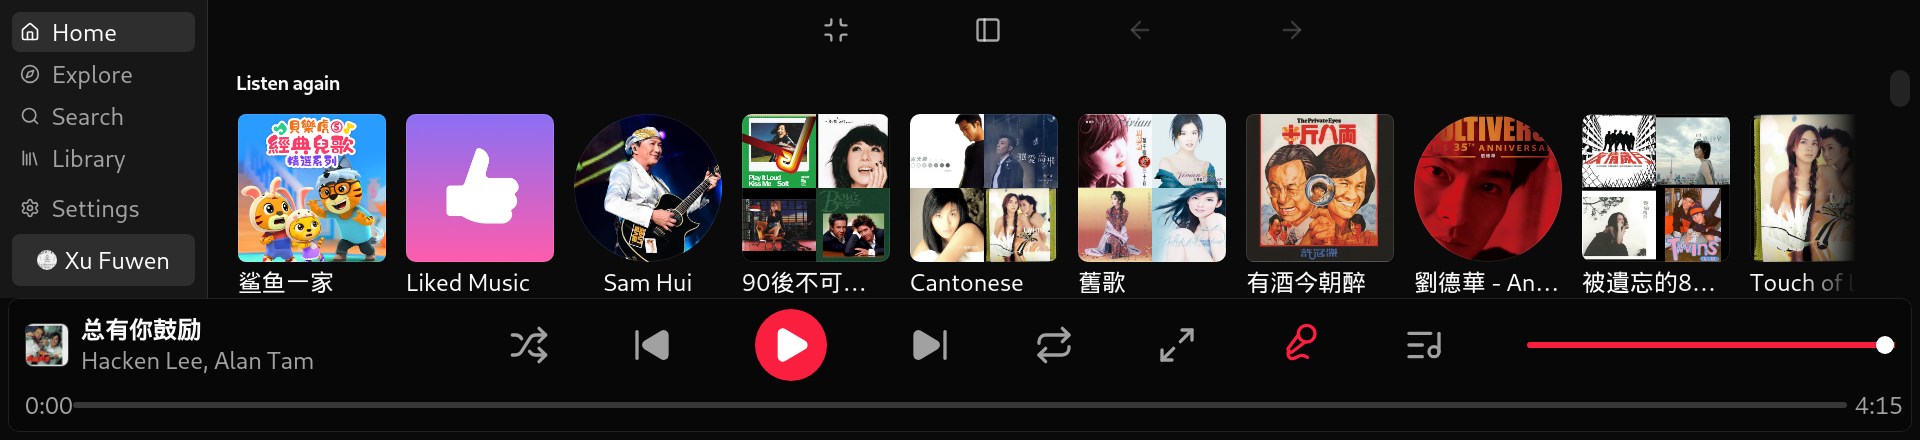
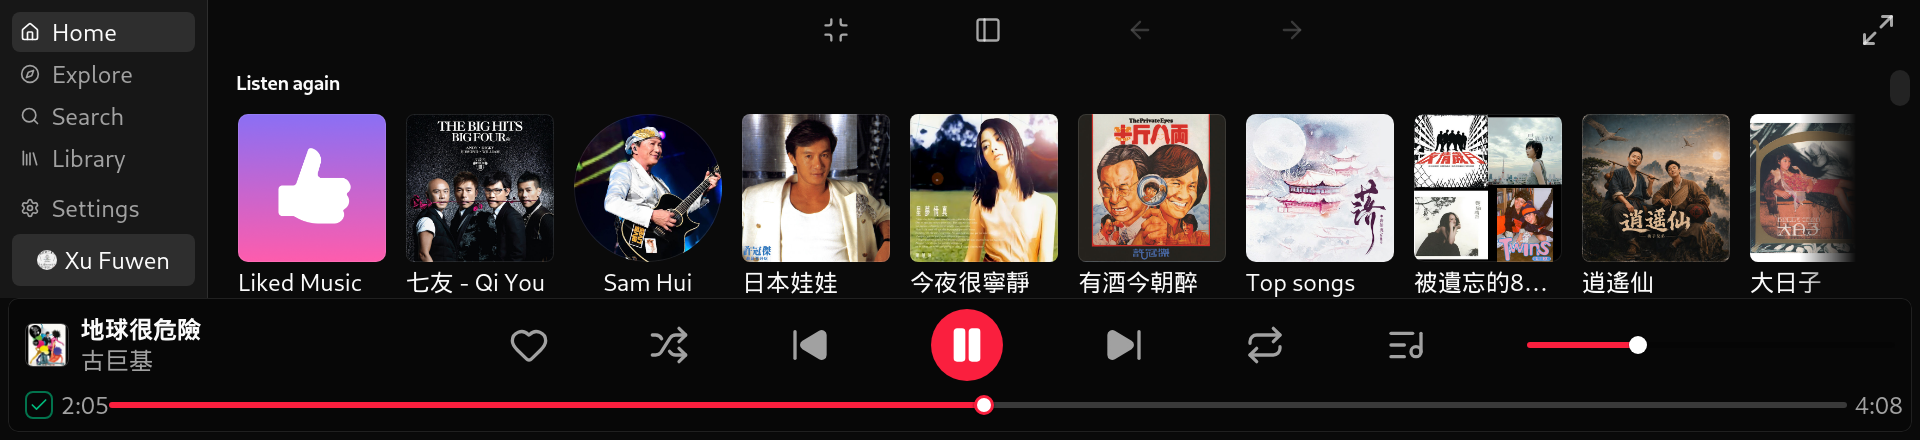
The README shows the interface as it is now, not as it was three phases ago
Home and karaoke are re-captured from the device. Home now shows the seek bar
with its draggable thumb and the green confirm-lyrics button; karaoke is caught
mid-line, which is the only way to show that the sung/unsung edge sweeps
through a word rather than switching whole words at a time.

Adds an "interface" section, because the screenshots no longer cover what is
there: the Local USB tab, the Search Lyrics screen with its caret-editable
fields and green/yellow sync-level results, and the rule that nothing is cached
until the green button says so.

Two claims in Status had quietly become false and are corrected rather than
deleted — the lyrics matching is scored now, not first-hit-wins, and the
karaoke stage no longer scrolls.

The Library capture predates the Local tab and says so. Re-shooting it needs a
tap on the panel, and there is no pointer tool on the device; a cropped
browser-mock render would have been a downgrade on a real one.

Claude-Session: https://claude.ai/code/session_01WLwY13oyzdHXJvsXPWy6Gi

diff --git a/README.md b/README.md
@@ -13,18 +13,56 @@ See **[DESIGN.md](./DESIGN.md)** for the full architecture proposal.
 *Home, captured from the device. Page headings are gone and the cards are sized so a
 whole row of artwork clears the fold — on a 238px content area that's the difference
 between seeing a row and seeing the top third of one. The player bar gives the track a
-quarter of its width and spreads the controls across the rest.*
+quarter of its width and spreads the controls across the rest. Along the bottom: the
+green **confirm-lyrics** button (left), then a seek bar with a real draggable thumb —
+its 36px touch band is three times the visible line, because a 6px strip is not
+something you hit at a traffic light.*
+
+![The full-screen karaoke stage](./docs/screenshot-karaoke.png)
+
+*The karaoke stage (`L`, or the top-right corner), captured mid-line. Three **fixed**
+slots — previous, current, next — with the current line centred and never moving; an
+earlier version scrolled a full list, which meant the line you were reading was in
+motion for most of its own airtime. The sung/unsung edge sweeps continuously and
+interpolates* inside *the word being sung, which is what makes it read as singing
+rather than as words switching colour. Right cluster: search lyrics, lyrics source,
+queue, volume. Closing is the same corner that opened it.*
 
 ![The Library, sub-nav down the left](./docs/screenshot-library.png)
 
 *Library. Sub-navigation runs down the left rather than across the top: there are 1712
-spare horizontal pixels and almost no vertical ones. Explore works the same way.*
+spare horizontal pixels and almost no vertical ones. Explore works the same way. The
+strip now carries a fifth tab — **Local**, for music on a USB stick — and its spacing
+was tightened so all five clear the fold without scrolling. (This capture predates the
+Local tab; the rest of the screen is unchanged.)*
 
-![The full-screen karaoke stage](./docs/screenshot-karaoke.png)
+## The interface
 
-*The karaoke stage (`L`, or the expand button). Three big lines, scroll-synced, with a
-±3s offset in Settings for Bluetooth latency to the car speakers. Lyrics come from
-seven providers searched in tiers — usually one request, not seven.*
+Everything is built for one screen: a **1920x440** touch panel in a car, roughly 238px
+of content once the top bar and player bar have taken their share. That constraint,
+not taste, explains most of the layout decisions.
+
+- **Home / Explore / Search** — horizontally scrolling shelves, sized so a full row of
+  artwork clears the fold.
+- **Library** — Playlists, Songs, Albums, Artists, and **Local**. Local scans a USB
+  drive for MP3s and lists song, artist and length, with in-order / shuffle / repeat.
+  It needs no account and no internet, so it keeps working when nothing else does.
+- **The player bar** — cover and title on the left quarter, transport spread across
+  the middle, then queue and volume. The bottom row is the seek bar, with the green
+  lyrics-confirm button at its left end.
+- **The karaoke stage** — `L`, or the top-right corner. Three fixed lyric slots with a
+  sweeping karaoke fill; tap anywhere to reveal the track name for a few seconds.
+- **Search Lyrics** — its own icon beside the lyrics-source picker. Artist and song
+  fields down the left, an on-screen keyboard (with Pinyin) on the right, and results
+  from six providers boxed **green for word-synced** and **yellow for line-synced**.
+  Every field is tap-to-position with a real caret, because correcting one wrong word
+  should not mean retyping the rest.
+- **Nothing is cached until you say so.** Lyrics found automatically are shown but not
+  saved; the green button is what commits them for next time. A wrong match therefore
+  can't become permanent — which it used to, silently.
+
+There is an on-screen keyboard throughout because WebKitGTK raises none of its own,
+and a pointer is not something a driver has.
 
 ## Install on a Raspberry Pi
 
@@ -384,15 +422,20 @@ What's real:
   hero) / `Playlist` / `Album` / `Artist`, all cache-first and non-blocking on
   failure (an error card + Retry, never a frozen spinner or a blank screen).
 - Lyrics: all 7 of YTMLite's sources (YouTube Music, LRCLIB, Kugou, NetEase,
-  Musixmatch, QQ Music, Genius — `src/lib/lyrics/`), same auto-pick preference order
-  and "timed beats plain" rule as YTMLite, plus a manual source picker (the mic
-  button in both bars). All 7 are fetched in parallel for every track anyway, so
-  `lyrics:loaded` ships the whole per-source map and switching is a local `set()`
-  with no refetch; each row shows whether that provider has synced, plain or no
-  lyrics for this track, and the choice persists across tracks and restarts, falling
-  back to auto whenever the pinned source has nothing. The karaoke stage scrolls and
-  highlights the active line with the same easing/timing engine as YTMLite, opened
-  via the player bar's full-screen button or the `L` shortcut.
+  Musixmatch, QQ Music, Genius — `src/lib/lyrics/`), plus a manual source picker (the
+  mic button in both bars) and a hand-typed **Search Lyrics** screen over the six
+  that can be searched by name.
+
+  **Superseded since:** matching no longer works the way YTMLite's does. Each source
+  used to return its *first* search hit filtered by a boolean plausibility test, which
+  cannot tell the right song from a Live version or a cover — search engines rank by
+  popularity, not by what is playing. Every candidate from every source is now
+  *scored* (`src/lib/lyrics/score.ts`, ported from the Carlyrics project) and the
+  tiered walk falls through when the best score is under 50%. The karaoke stage no
+  longer scrolls either: it draws three fixed slots with a continuous karaoke sweep
+  (see the screenshot caption above). And nothing is written to the lyrics cache until
+  the green confirm button is pressed — auto-caching made a wrong match permanent,
+  because a cache hit skips the search that would have corrected it.
 - A queue panel (now playing / up next, jump-to, remove), anchored to the player bar
   and to the karaoke stage's own right-hand cluster (lyrics source / queue / volume).
 - **Accounts/sign-in.** `subsystems/auth.rs` opens a Google login webview and reads
